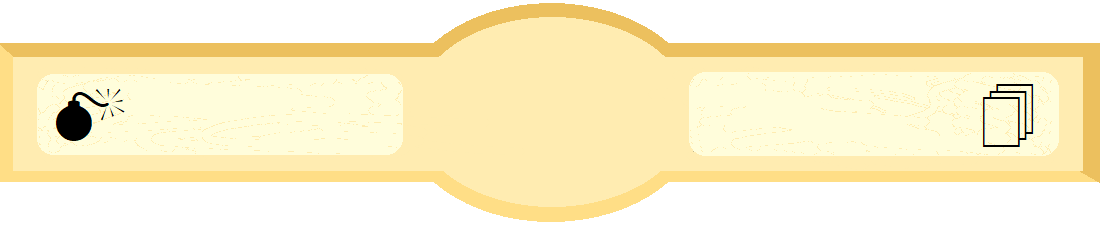
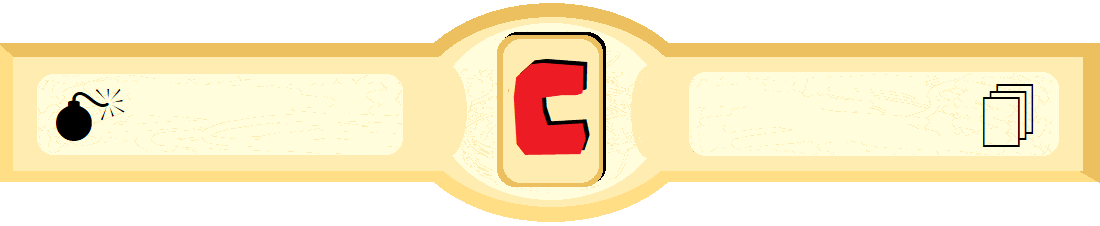
new cards

diff --git a/card.py b/card.py
@@ -1,4 +1,5 @@
 import math
+import random
 
 import pygame
 
@@ -602,3 +603,124 @@ class PressCard(Card):
             self.screen.blit(self.hide_surface, (593, 685))  # Z
         if not (self.count > 8 or self.buttons[9]):
             self.screen.blit(self.hide_surface, (481, 534))  # F
+
+class TriangleCard(Card):
+    def __init__(self, screen, eventHandler, timer):
+        super().__init__("res/triangle_card.png", screen, eventHandler, timer)
+        self.hover_surface = pygame.Surface((174, 124))
+        self.hover_surface.set_alpha(30)
+        self.hover_surface.set_colorkey((255, 255, 255))
+        self.hint = False
+        self.hint_surface = pygame.Surface((200, 65))
+        self.hint_surface.fill((255, 236, 177))
+
+    def tick(self):
+        super().tick()
+        if self.end:
+            return
+
+        if self.eventHandler.is_clicked["left"] and not self.eventHandler.is_lockedc["left"]:
+            self.eventHandler.is_lockedc["left"] = True
+
+            mousePos = self.eventHandler.mousePos
+            if 628 <= mousePos[1] <= 752:
+                if 403 <= mousePos[0] <= 575:
+                    return False
+                if 702 <= mousePos[0] <= 876:
+                    self.hint = True
+                    return False
+                if 1000 <= mousePos[0] <= 1174:
+                    self.done()
+                    return True
+        if not self.eventHandler.is_clicked["left"]:
+            self.eventHandler.is_lockedc["left"] = False
+
+    def render(self, counter):
+        super().render(counter)
+        if self.end:
+            return
+        mousePos = self.eventHandler.mousePos
+        if 628 <= mousePos[1] <= 752:
+            if 403 <= mousePos[0] <= 575:
+                self.screen.blit(self.hover_surface, (403, 628))
+            if 702 <= mousePos[0] <= 876:
+                self.screen.blit(self.hover_surface, (702, 628))
+            if 1000 <= mousePos[0] <= 1174:
+                self.screen.blit(self.hover_surface, (1000, 628))
+        if not self.hint:
+            self.screen.blit(self.hint_surface, (451, 385))
+
+class ColorCard(Card):
+    def __init__(self, screen, eventHandler, timer):
+        super().__init__("res/color_card.png", screen, eventHandler, timer)
+        self.rgb = [0, 0, 0]
+
+        self.red = pygame.Surface((95, 59))
+        self.green = pygame.Surface((95, 59))
+        self.blue = pygame.Surface((95, 59))
+        self.red.fill("Red")
+        self.green.fill("Green")
+        self.blue.fill("Blue")
+        self.answerrgb = [random.randint(0, 5), random.randint(0, 5), random.randint(0, 5)]
+        self.answer_surface = pygame.Surface((175, 175))
+        self.guess_surface = pygame.Surface((175, 175))
+        self.answer_surface.fill((self.answerrgb[0] * 51, self.answerrgb[1] * 51, self.answerrgb[2] * 51))
+
+
+    def tick(self):
+        super().tick()
+        if self.end:
+            return
+        if self.eventHandler.is_pressed["r"] and not self.eventHandler.is_lockedp["r"]:
+            self.eventHandler.is_lockedp["r"] = True
+            self.rgb[0] = (self.rgb[0] + 1) % 6
+        if not self.eventHandler.is_pressed["r"]:
+            self.eventHandler.is_lockedp["r"] = False
+
+        if self.eventHandler.is_pressed["g"] and not self.eventHandler.is_lockedp["g"]:
+            self.eventHandler.is_lockedp["g"] = True
+            self.rgb[1] = (self.rgb[1] + 1) % 6
+        if not self.eventHandler.is_pressed["g"]:
+            self.eventHandler.is_lockedp["g"] = False
+
+        if self.eventHandler.is_pressed["b"] and not self.eventHandler.is_lockedp["b"]:
+            self.eventHandler.is_lockedp["b"] = True
+            self.rgb[2] = (self.rgb[2] + 1) % 6
+        if not self.eventHandler.is_pressed["b"]:
+            self.eventHandler.is_lockedp["b"] = False
+
+        if self.eventHandler.is_clicked["left"] and not self.eventHandler.is_lockedc["left"]:
+            self.eventHandler.is_lockedc["left"] = True
+            mousePos = self.eventHandler.mousePos
+            if math.sqrt((449 - mousePos[0])**2 + (421 - mousePos[1])**2) <= 54:
+                self.rgb[0] = (self.rgb[0] + 1) % 6
+            if math.sqrt((569 + 49 - mousePos[0])**2 + (421 - mousePos[1])**2) <= 54:
+                self.rgb[1] = (self.rgb[1] + 1) % 6
+            if math.sqrt((735 + 48 - mousePos[0])**2 + (421 - mousePos[1])**2) <= 54:
+                self.rgb[2] = (self.rgb[2] + 1) % 6
+        if not self.eventHandler.is_clicked["left"]:
+            self.eventHandler.is_lockedc["left"] = False
+
+        if self.rgb == self.answerrgb:
+            self.done()
+            return True
+
+
+
+    def render(self, counter):
+        super().render(counter)
+        if self.end:
+            return
+
+        for i in range(self.rgb[0]):
+            self.screen.blit(self.red, (400, 786 - 59 * (i+1)))
+        for i in range(self.rgb[1]):
+            self.screen.blit(self.green, (569, 786 - 59 * (i+1)))
+        for i in range(self.rgb[2]):
+            self.screen.blit(self.blue, (735, 786 - 59 * (i+1)))
+
+        self.guess_surface.fill((self.rgb[0] * 51, self.rgb[1] * 51, self.rgb[2] * 51))
+        self.screen.blit(self.guess_surface, (1031, 364))
+        self.screen.blit(self.answer_surface, (1031, 596))
+
+

diff --git a/state.py b/state.py
@@ -43,7 +43,7 @@ class MenuState(State):
         super().__init__(screen, eventHandler, timer, cardLoader)
         self.play_button = pygame.image.load("res/play_button.png")
         self.play_button_hovered = pygame.image.load("res/play_button_hovered.png")
-        self.logo = pygame.image.load("res/logo_2.png")
+        self.logo = pygame.image.load("res/logo_finalized.png")
 
         self.red_size = 50
         self.yellow_size = 50
@@ -107,7 +107,7 @@ class MenuState(State):
         else:
             self.screen.blit(self.play_button, (play_pos))
 
-        self.screen.blit(self.logo, (width/2 - self.logo.get_width()/2, 50))
+        self.screen.blit(self.logo, (width/2 - self.logo.get_width()/2, 30))
 
 class GameState(State):
     def __init__(self, screen, eventHandler, timer, cardLoader):
@@ -115,8 +115,8 @@ class GameState(State):
         self.interface = pygame.image.load("res/interface.png")
         self.started = False
 
-        self.cards_left = 11
-        self.current_card = self.cardLoader.loadcard(10, self.screen, self.eventHandler, self.timer)
+        self.cards_left = 13
+        self.current_card = self.cardLoader.loadcard(0, self.screen, self.eventHandler, self.timer)
         self.next_card = self.cardLoader.loadcard(1, self.screen, self.eventHandler, self.timer)
         self.holding_card = None
         self.cardcounter = 1

diff --git a/cardloader.py b/cardloader.py
@@ -12,9 +12,9 @@ class Cardloader:
             case 3:
                 return card.RememberCard(screen, eventhandler, timer)
             case 4:
-                return card.MinefieldCard(screen, eventhandler, timer)
+                return card.LabyrinthCard(screen, eventhandler, timer)
             case 5:
-                return card.RightCard(screen, eventhandler, timer)
+                return card.TriangleCard(screen, eventhandler, timer)
             case 6:
                 return card.ImpossiblequizCard(screen, eventhandler, timer)
             case 7:
@@ -22,6 +22,11 @@ class Cardloader:
             case 8:
                 return card.MessageCard(screen, eventhandler, timer)
             case 9:
-                return card.LabyrinthCard(screen, eventhandler, timer)
+                return card.RightCard(screen, eventhandler, timer)
             case 10:
+                return card.MinefieldCard(screen, eventhandler, timer)
+            case 11:
                 return card.PressCard(screen, eventhandler, timer)
+            case 12:
+                return card.ColorCard(screen, eventhandler, timer)
+

diff --git a/main.py b/main.py
@@ -20,6 +20,7 @@ cardLoader = cardloader.Cardloader()
 
 states = None
 currentState = None
+reset_lock = False
 
 
 def init():
@@ -49,15 +50,15 @@ def render():
 
 init()
 while True:
-    if eventHandler.is_pressed["r"] and not eventHandler.is_lockedp["r"]:
-        eventHandler.is_lockedp["r"] = True
+    if eventHandler.is_pressed["r"] and not reset_lock:
+        reset_lock = True
         if eventHandler.is_pressed["shift"]:
             reset()
         if eventHandler.is_pressed["strg"]:
             reset(True)
 
     if not eventHandler.is_pressed["r"]:
-        eventHandler.is_lockedp["r"] = False
+        reset_lock = False
 
     tick()
     render()
